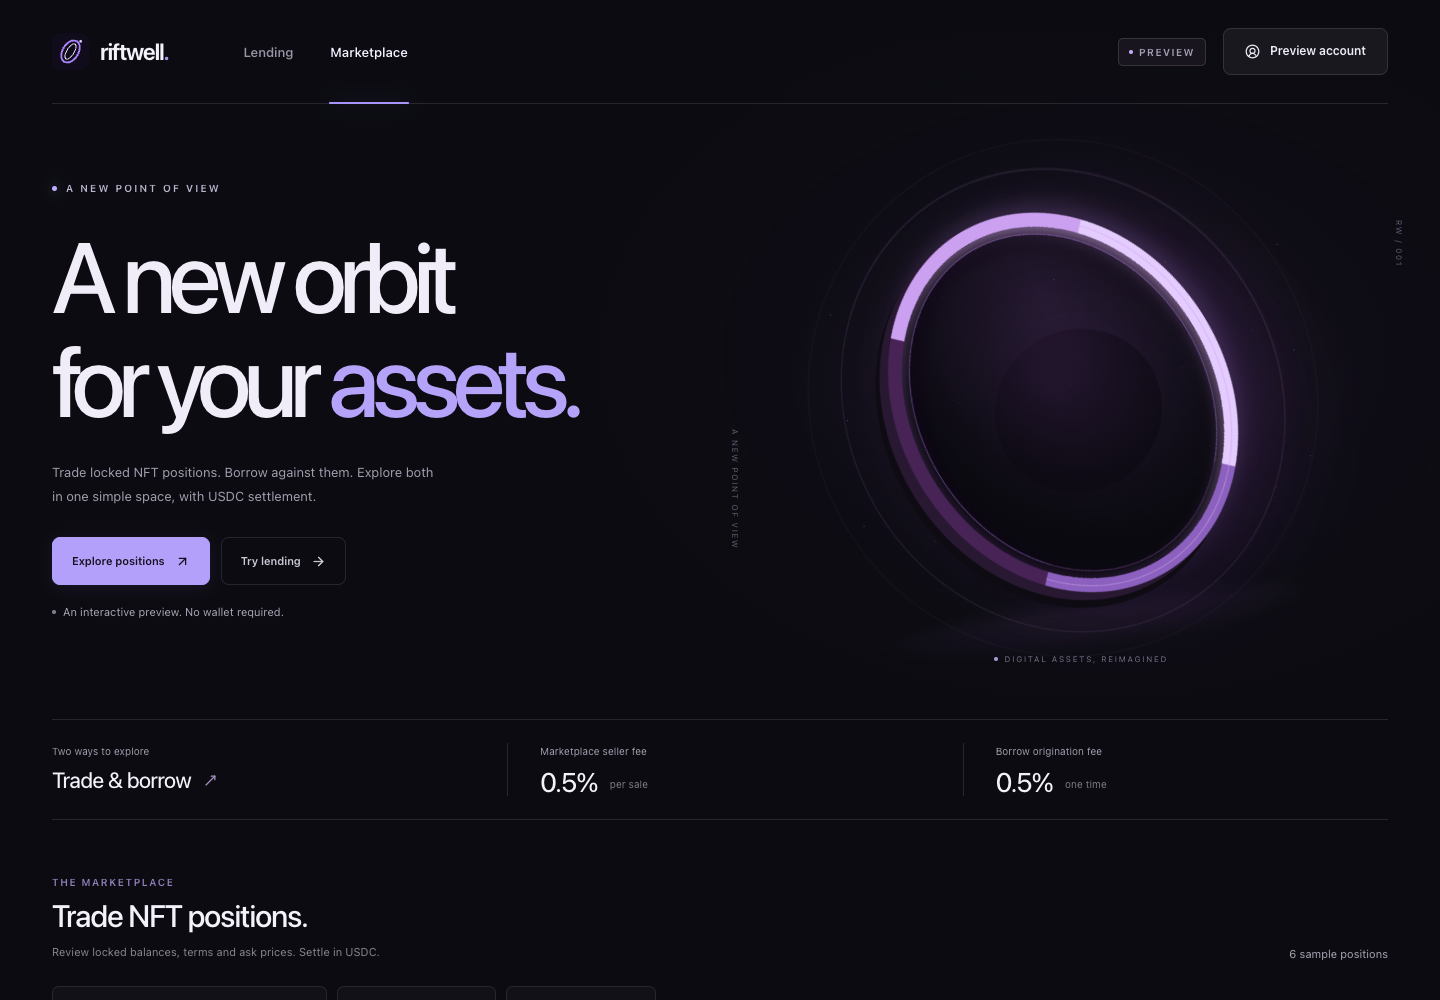
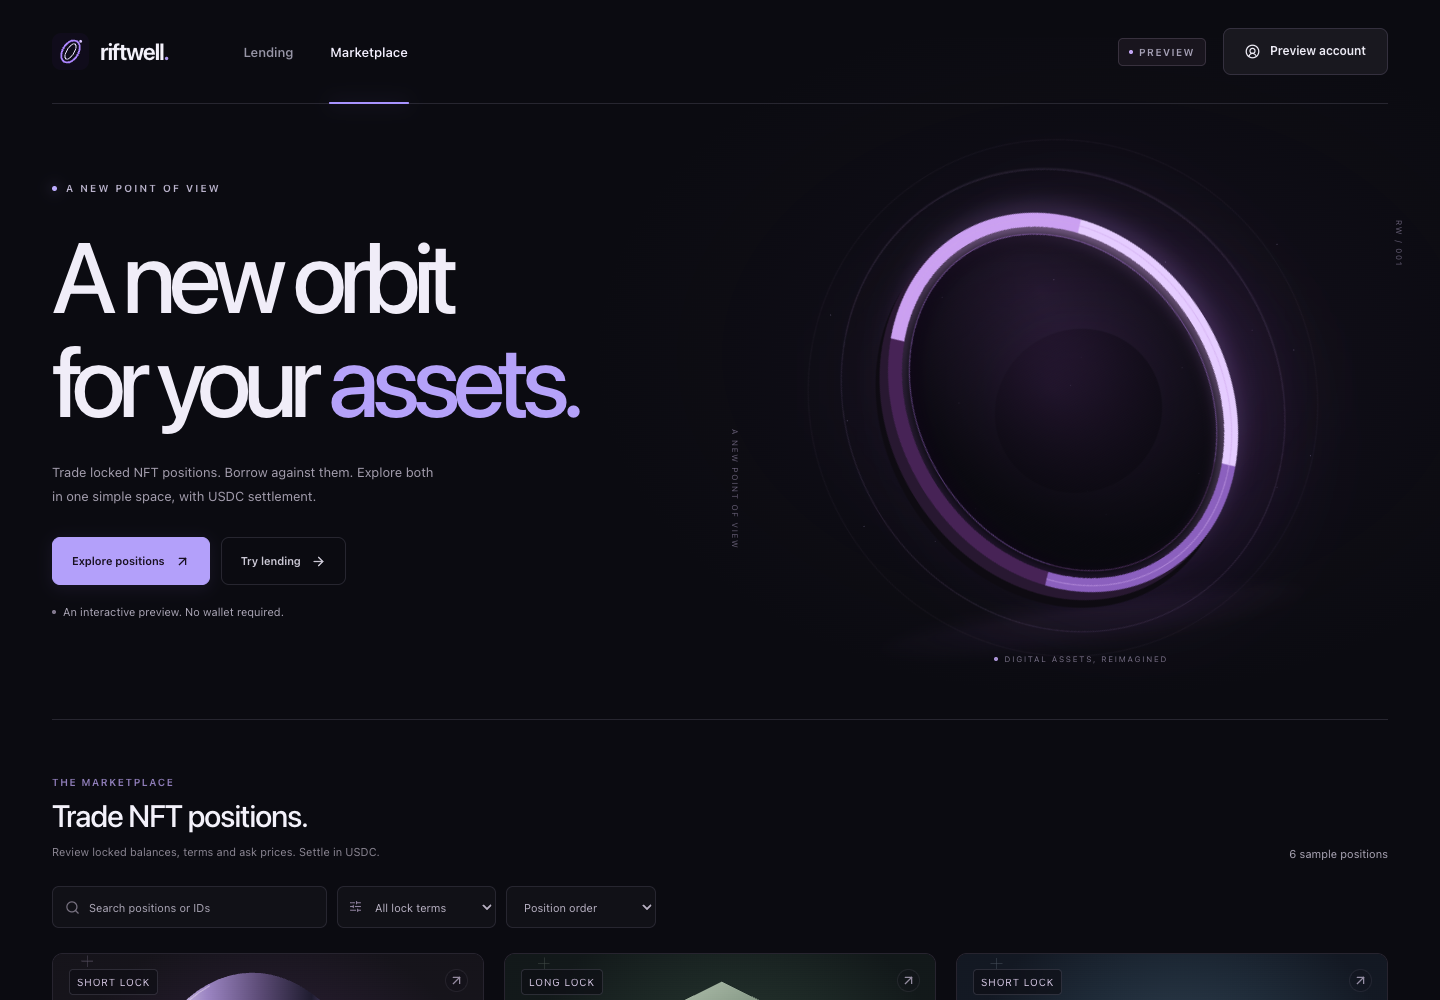
Show fees within action reviews instead of browsing pages

diff --git a/src/styles.css b/src/styles.css
@@ -590,59 +590,8 @@ img.brand-mark {
     transform: scale(1.07);
   }
 }
-.summary-strip {
-  display: grid;
-  grid-template-columns: repeat(3, 1fr);
-  border-top: 1px solid var(--line);
-  border-bottom: 1px solid var(--line);
-  padding: 23px 0;
-  gap: 30px;
-}
-.summary-item {
-  position: relative;
-  display: flex;
-  flex-direction: column;
-  align-items: start;
-  gap: 10px;
-  padding-left: 32px;
-  border-left: 1px solid var(--line);
-}
-.summary-item:first-child {
-  border: 0;
-  padding-left: 0;
-}
-.summary-value {
-  display: flex;
-  align-items: center;
-  gap: 12px;
-  font-size: 27px;
-  font-weight: 450;
-  letter-spacing: -1.1px;
-  line-height: 1;
-  white-space: nowrap;
-}
-.summary-value small {
-  font-size: 10px;
-  font-weight: 400;
-  letter-spacing: 0;
-  color: #807886;
-  margin-top: 3px;
-}
-.summary-value svg {
-  width: 15px;
-  height: 15px;
-  color: #a692c3;
-}
-.summary-item:first-child .summary-value {
-  font-size: 22px;
-  letter-spacing: -0.6px;
-}
-.summary-label {
-  font-size: 10px;
-  color: #a09aaa;
-  line-height: 1.6;
-}
 .workspace {
+  border-top: 1px solid var(--line);
   padding-top: 56px;
   padding-bottom: 62px;
   scroll-margin-top: 32px;
@@ -1048,7 +997,7 @@ select {
   color: #a194b0;
   font-size: 11px;
   line-height: 1.85;
-  margin: 0 0 20px;
+  margin: 0;
 }
 .lending-intro-icon {
   width: 43px;
@@ -1064,32 +1013,6 @@ select {
 .lending-intro .button {
   width: 100%;
   margin-top: 14px;
-}
-.lending-stats {
-  display: flex;
-  flex-direction: column;
-  gap: 8px;
-  margin-top: 23px;
-  padding-top: 21px;
-  border-top: 1px solid #423049;
-}
-.lending-stats > div {
-  display: flex;
-  flex-direction: column;
-  gap: 4px;
-}
-.lending-stats strong {
-  font-size: 23px;
-  font-weight: 450;
-  letter-spacing: -0.7px;
-}
-.lending-stats span {
-  color: #a393b3;
-  font-size: 10px;
-}
-.lending-stats small {
-  font-size: 10px;
-  color: #8e759d;
 }
 .lending-table-wrap {
   min-width: 0;
@@ -1945,16 +1868,6 @@ div.field-label {
   .portal-coordinate {
     font-size: 7px;
   }
-  .summary-item {
-    padding-left: 22px;
-    gap: 13px;
-  }
-  .summary-value {
-    font-size: 26px;
-  }
-  .summary-label {
-    font-size: 10px;
-  }
   .asset-grid {
     grid-template-columns: repeat(2, minmax(0, 1fr));
     gap: 18px;
@@ -1964,7 +1877,7 @@ div.field-label {
   }
   .lending-intro {
     display: grid;
-    grid-template-columns: 43px 1fr auto;
+    grid-template-columns: 43px 1fr;
     gap: 0 22px;
     align-items: start;
   }
@@ -1972,7 +1885,7 @@ div.field-label {
     margin: 0;
     grid-column: 1;
   }
-  .lending-intro > div:not(.lending-stats) {
+  .lending-intro > div {
     grid-column: 2;
   }
   .lending-intro h3 {
@@ -1981,16 +1894,6 @@ div.field-label {
   .lending-intro p {
     margin-bottom: 0;
     max-width: 430px;
-  }
-  .lending-stats {
-    grid-column: 3;
-    grid-row: 1;
-    padding: 0 0 0 22px;
-    border: 0;
-    border-left: 1px solid #423049;
-    margin: 0;
-    justify-content: center;
-    min-width: 125px;
   }
   .lending-intro > .button {
     grid-column: 1;
@@ -2122,40 +2025,6 @@ div.field-label {
   .portal-coordinate.top {
     right: 12%;
   }
-  .summary-strip {
-    padding-block: 20px;
-    gap: 15px;
-  }
-  .summary-item {
-    flex-direction: column;
-    align-items: start;
-    gap: 8px;
-    padding-left: 15px;
-  }
-  .summary-value {
-    font-size: 25px;
-    flex-direction: column;
-    align-items: start;
-    gap: 7px;
-  }
-  .summary-value small {
-    margin: 0;
-    font-size: 10px;
-  }
-  .summary-item:first-child .summary-value {
-    font-size: 17px;
-    letter-spacing: -0.5px;
-    line-height: 1.3;
-    white-space: normal;
-    max-width: 130px;
-  }
-  .summary-value svg {
-    display: none;
-  }
-  .summary-label {
-    font-size: 10px;
-    line-height: 1.5;
-  }
   .workspace {
     padding-top: 35px;
     padding-bottom: 39px;
@@ -2252,13 +2121,6 @@ div.field-label {
   .lending-intro {
     grid-template-columns: 43px 1fr;
     gap: 18px;
-  }
-  .lending-stats {
-    grid-column: 2;
-    grid-row: 2;
-    border: 0;
-    border-top: 1px solid #423049;
-    padding: 16px 0 0;
   }
   .lending-table thead {
     display: none;
@@ -2463,24 +2325,6 @@ div.field-label {
   .portal-coordinate.top {
     right: 7%;
   }
-  .summary-strip {
-    padding: 17px 0;
-    gap: 10px;
-  }
-  .summary-item {
-    padding-left: 12px;
-    gap: 7px;
-  }
-  .summary-value {
-    font-size: 24px;
-  }
-  .summary-item:first-child .summary-value {
-    font-size: 14px;
-    letter-spacing: -0.4px;
-  }
-  .summary-label {
-    font-size: 10px;
-  }
   .section-heading {
     gap: 13px;
     flex-direction: column;
@@ -2529,18 +2373,6 @@ div.field-label {
   }
   .lending-intro-icon {
     margin-bottom: 20px;
-  }
-  .lending-stats {
-    flex-direction: column;
-    justify-content: start;
-    gap: 7px;
-    border-left: 0;
-    border-top: 1px solid #423049;
-    padding: 17px 0 0;
-    margin-top: 19px;
-  }
-  .lending-stats strong {
-    font-size: 22px;
   }
   .lending-table tr {
     padding: 15px;

diff --git a/src/App.tsx b/src/App.tsx
@@ -1,10 +1,4 @@
-import {
-  ArrowRight,
-  ArrowUpRight,
-  CircleUserRound,
-  Info,
-  MoveUpRight,
-} from 'lucide-react';
+import { ArrowRight, ArrowUpRight, CircleUserRound, Info } from 'lucide-react';
 import { useEffect, useRef, useState } from 'react';
 import { ASSETS } from './data';
 import {
@@ -290,27 +284,6 @@ export default function App() {
             </div>
           </div>
         </section>
-        <div className="summary-strip" aria-label="Preview features and fees">
-          <div className="summary-item">
-            <span className="summary-label">Two ways to explore</span>
-            <strong className="summary-value">
-              Trade &amp; borrow
-              <MoveUpRight size={19} aria-hidden="true" />
-            </strong>
-          </div>
-          <div className="summary-item">
-            <span className="summary-label">Marketplace seller fee</span>
-            <strong className="summary-value">
-              0.5%<small>per sale</small>
-            </strong>
-          </div>
-          <div className="summary-item">
-            <span className="summary-label">Borrow origination fee</span>
-            <strong className="summary-value">
-              0.5%<small>one time</small>
-            </strong>
-          </div>
-        </div>
         {storageIssue && (
           <div className="notice storage-notice" role="status">
             <Info size={18} aria-hidden="true" />
@@ -555,17 +528,6 @@ export default function App() {
                 <dd>
                   Saved to this browser’s local storage. Use Reset preview to
                   clear it.
-                </dd>
-              </div>
-              <div>
-                <dt>Marketplace fee</dt>
-                <dd>Seller pays 0.5% of the sale price.</dd>
-              </div>
-              <div>
-                <dt>Borrowing fee</dt>
-                <dd>
-                  One-time 0.5% of principal. Lender interest is calculated
-                  separately.
                 </dd>
               </div>
             </dl>

diff --git a/src/components/Lending.tsx b/src/components/Lending.tsx
@@ -76,17 +76,6 @@ export default function Lending({
                 : 'Review fictional USDC requests and propose an amount, APR and duration. APR is capped at 40% in this preview.'}
             </p>
           </div>
-          <div className="lending-stats">
-            <span>
-              {isBorrow ? 'One-time origination fee' : 'Platform fee to lender'}
-            </span>
-            <strong>{isBorrow ? '0.5%' : '0%'}</strong>
-            <small>
-              {isBorrow
-                ? 'Lender interest is separate'
-                : 'Borrower pays 0.5% origination'}
-            </small>
-          </div>
         </div>
         <div className="lending-table-wrap">
           <table className="lending-table">

diff --git a/src/components/Marketplace.tsx b/src/components/Marketplace.tsx
@@ -180,7 +180,7 @@ export default function Marketplace({ assets, onDetails, onPurchase }: Props) {
       )}
       <p className="workspace-note">
         Fictional NFT positions and RIFT units. Values are illustrative; no
-        chain data or yield is shown. Seller fee: 0.5%.
+        chain data or yield is shown.
       </p>
     </>
   );
